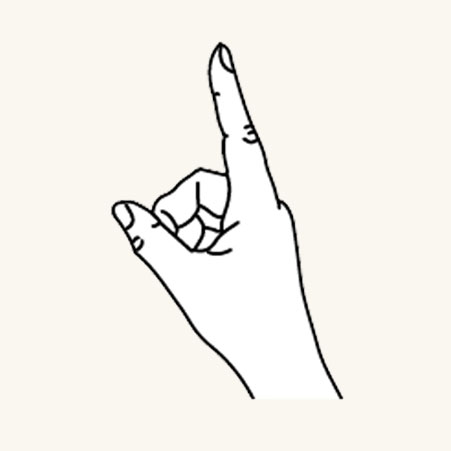
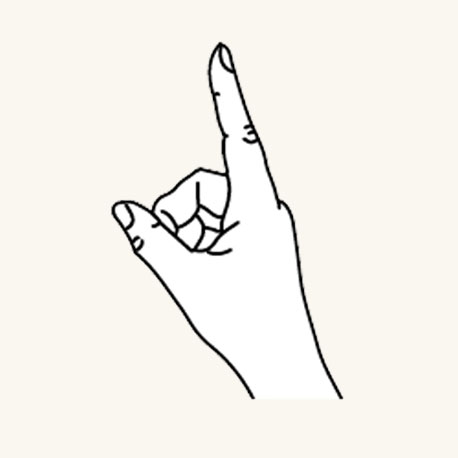
updates

diff --git a/mixed-reality-docs/article-template.md b/mixed-reality-docs/article-template.md
@@ -69,12 +69,12 @@ Editorial conventions:
 
 :::row:::
     :::column:::
-        ![Description of what the pictures is here.](images/image-451x451px-2-columns.jpg)<br>
+        ![Description of what the pictures is here.](images/image-458x458px-2-columns.jpg)<br>
         **Image #1 label text**<br>
         Further clarification and description of image - optional, use as needed
     :::column-end:::
     :::column:::
-        ![Description of what the pictures is here.](images/image-451x451px-2-columns.jpg)<br>
+        ![Description of what the pictures is here.](images/image-458x458px-2-columns.jpg)<br>
         **Image #2 label text**<br>
         Further clarification and description of image - optional, use as needed
     :::column-end:::
